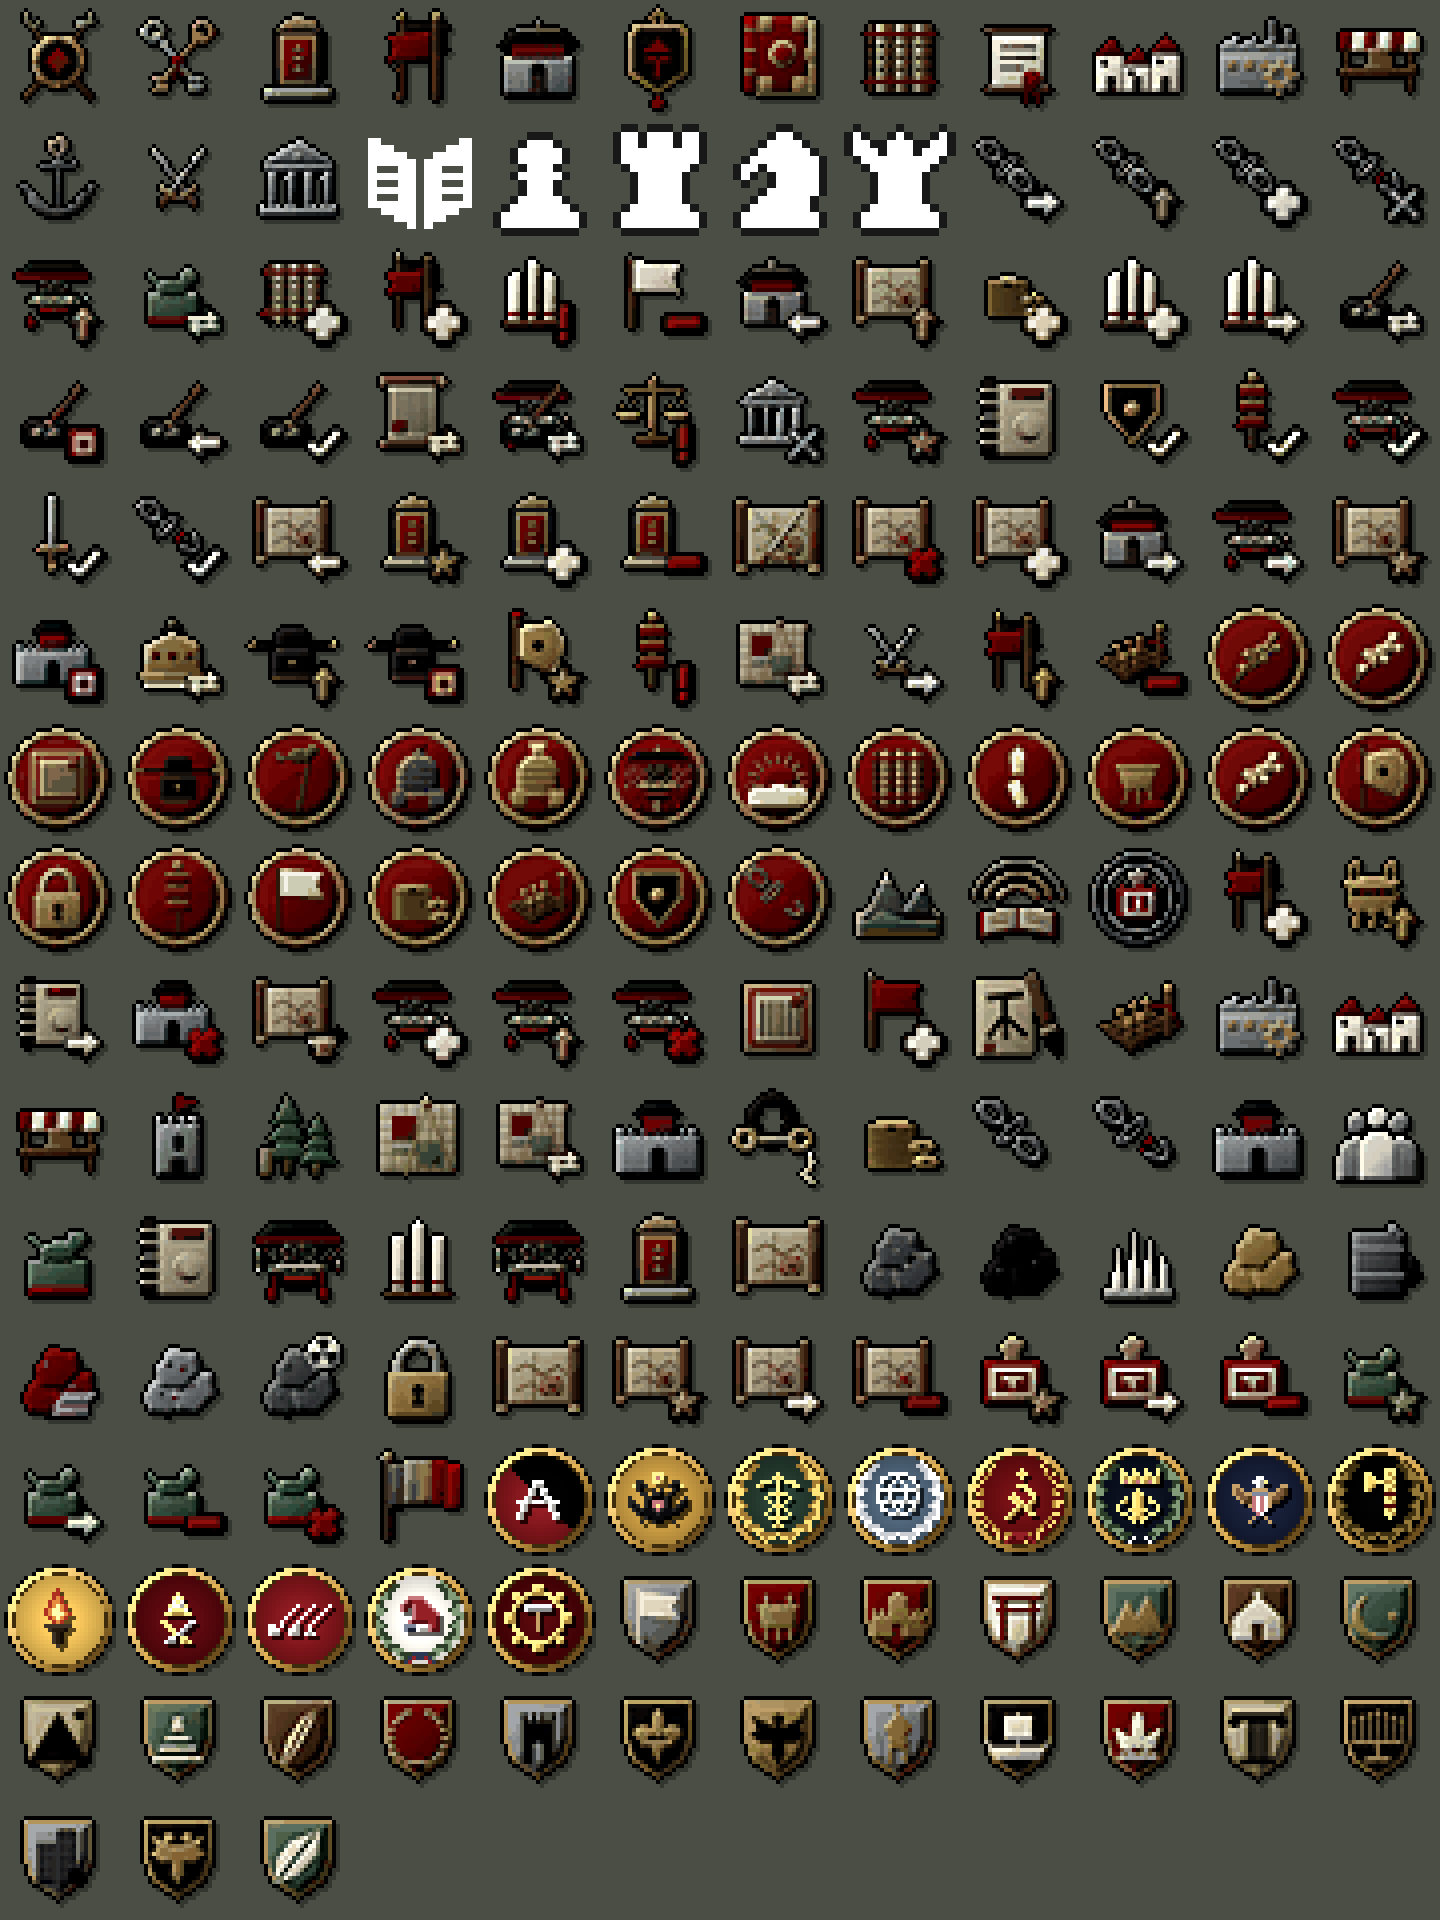
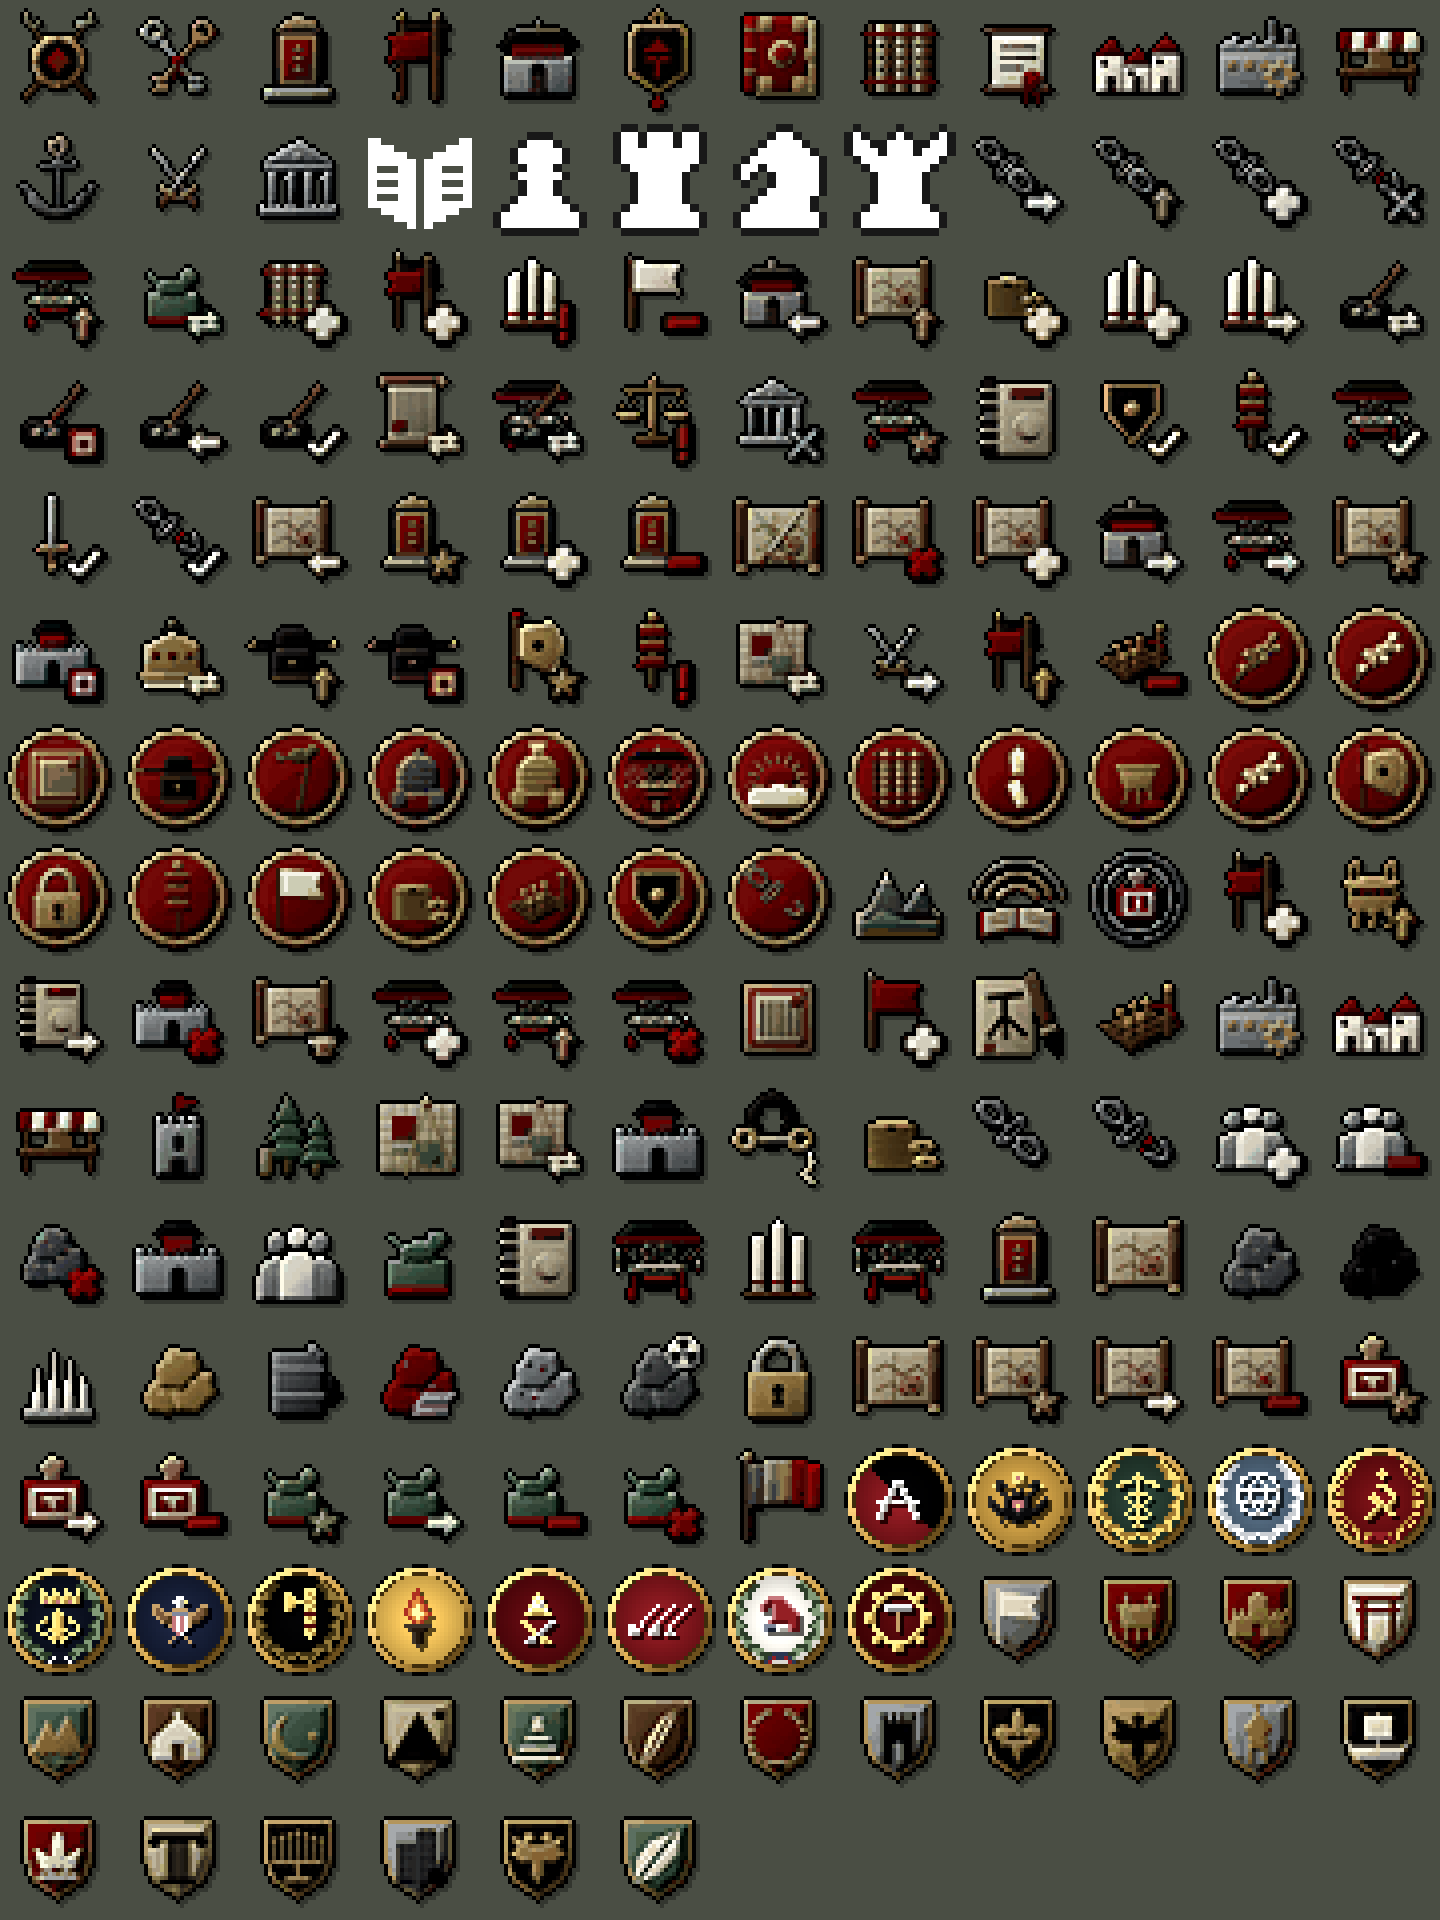
人口、矿藏神力笔刷(玩家："可以自定义人口、资源分布吗"，用户选神力笔刷)：文化与规划页新加一组——增加人口、减少人口(按住在城市领地上刷，刷到的城每 0.12 秒按原有阶层、文化、种族、理念比例增减约 4%，至少 50 人；空城按本城主文化加农民)；八种战略矿藏各一个"放置矿藏"笔刷(刷到的城有了这种矿藏、储量回满、固定下来，图标用现成的资源图标)；清除矿藏(去掉刷到的城全部战略矿藏)。三个新图标用 IconForge 画(人口剪影加减号、矿石叉号)

Changed region(s): [[0.0, 0.5625, 1.0, 1.0]]

diff --git a/Scripts/GodPowers/CityResourcePowers.cs b/Scripts/GodPowers/CityResourcePowers.cs
@@ -1,0 +1,161 @@
+using System.Collections.Generic;
+using System.Linq;
+using EmpireCraft.Scripts.Data;
+using EmpireCraft.Scripts.GameClassExtensions;
+using EmpireCraft.Scripts.GeneralSystems;
+using EmpireCraft.Scripts.Layer;
+using NeoModLoader.General;
+using UnityEngine;
+
+namespace EmpireCraft.Scripts.GodPowers;
+
+// 人口、矿藏笔刷(玩家："可以自定义人口、资源分布吗"，用户 2026-10-16 选神力笔刷)：
+//   · 增加人口 / 减少人口：按住在城市领地上刷，笔刷盖到的每座城每 0.12 秒增减现有人口的 4%(至少 50 人)，
+//     按原有的阶层、文化、种族、理念比例增减；空城按本城主文化加农民；
+//   · 矿藏笔刷(铜、煤、硝石、硫磺、石油、铝土、稀土、铀各一个)：刷到的城有了这种矿藏、储量回满，固定下来
+//     (同读档后的矿藏一样不再随地形变)；"清除矿藏"刷到的城去掉全部战略矿藏。
+public static class CityResourcePowers
+{
+    public const string PopulationAdd = "population_add", PopulationRemove = "population_remove", DepositClear = "deposit_clear";
+    private const string DepositPrefix = "deposit_";
+    private const float StepShare = 0.04f, MinStep = 50f, Interval = 0.12f;
+    private static readonly Dictionary<long, float> LastStroke = new();
+    private static readonly HashSet<City> Brushed = new();
+    private static readonly Dictionary<string, string> Minerals = new();
+
+    public static string DepositId(string mineral) => DepositPrefix + mineral;
+
+    // 登记各笔刷，返回 (神力 id, 按钮图标路径)
+    public static List<(string power, string icon)> Init()
+    {
+        var result = new List<(string, string)>
+        {
+            (PopulationAdd, "ui/icons/godpowers/" + PopulationAdd),
+            (PopulationRemove, "ui/icons/godpowers/" + PopulationRemove)
+        };
+        foreach ((string mineral, _, _, _) in MineralResourceSystem.Minerals)
+        {
+            string id = DepositId(mineral);
+            Minerals[id] = mineral;
+            // 名称、说明随矿名拼出来
+            string name = LM.Get(mineral);
+            LM.AddToCurrentLocale(id, string.Format(LM.Get("deposit_power_name"), name));
+            LM.AddToCurrentLocale(id + "_description", string.Format(LM.Get("deposit_power_description"), name));
+            result.Add((id, "ui/icons/resources/iconRes_" + mineral));
+        }
+        result.Add((DepositClear, "ui/icons/godpowers/" + DepositClear));
+        foreach ((string id, _) in result)
+        {
+            if (AssetManager.powers.get(id) != null) continue;
+            AssetManager.powers.add(new GodPower
+            {
+                id = id,
+                name = id,
+                hold_action = true,
+                show_tool_sizes = true,
+                unselect_when_window = true,
+                click_power_action = Collect,
+                click_power_brush_action = Stroke
+            });
+        }
+        return result;
+    }
+
+    // 笔刷盖到的格子：记下所在的城
+    private static bool Collect(WorldTile tile, GodPower power)
+    {
+        City city = tile?.zone_city;
+        if (city?.data != null && !city.isRekt()) Brushed.Add(city);
+        return true;
+    }
+
+    // 按住时每帧调一次：笔刷盖到的城各结算一次(同一座城隔 Interval 秒才再算)
+    private static bool Stroke(WorldTile center, GodPower power)
+    {
+        if (center == null || power == null || World.world == null) return false;
+        Brushed.Clear();
+        World.world.loopWithBrush(center, Brush.get(Config.current_brush), Collect, power);
+        float now = Time.unscaledTime;
+        bool changed = false;
+        foreach (City city in Brushed.ToList())
+        {
+            long key = city.data.id * 31L + power.id.GetHashCode();
+            if (LastStroke.TryGetValue(key, out float last) && now - last < Interval) continue;
+            LastStroke[key] = now;
+            changed |= Apply(city, power.id);
+        }
+        if (LastStroke.Count > 512) LastStroke.Clear();
+        return changed;
+    }
+
+    private static bool Apply(City city, string power)
+    {
+        switch (power)
+        {
+            case PopulationAdd: return ChangePopulation(city, true);
+            case PopulationRemove: return ChangePopulation(city, false);
+            case DepositClear:
+            {
+                CityPopulationData data = CityPopulationSystem.Get(city);
+                if (data == null) return false;
+                data.deposits_fixed ??= new Dictionary<string, bool>();
+                bool changed = false;
+                foreach ((string mineral, _, _, float chance) in MineralResourceSystem.Minerals)
+                {
+                    if (!MineralResourceSystem.HasDeposit(city, mineral, chance)) continue;
+                    data.deposits_fixed[mineral] = false;
+                    changed = true;
+                }
+                if (changed) Tip(city, LM.Get("deposit_clear_done"));
+                return changed;
+            }
+        }
+        if (!Minerals.TryGetValue(power, out string id)) return false;
+        CityPopulationData state = CityPopulationSystem.Get(city);
+        if (state == null) return false;
+        state.deposits_fixed ??= new Dictionary<string, bool>();
+        bool had = state.deposits_fixed.TryGetValue(id, out bool known) && known;
+        bool exhausted = state.deposit_depleted_at != null && state.deposit_depleted_at.ContainsKey(id) ||
+                         state.deposit_mined != null && state.deposit_mined.TryGetValue(id, out float mined) && mined > 0f;
+        if (had && !exhausted) return false;
+        state.deposits_fixed[id] = true;
+        state.deposit_depleted_at?.Remove(id);
+        state.deposit_mined?.Remove(id);
+        Tip(city, string.Format(LM.Get("deposit_power_done"), LM.Get(id)));
+        return true;
+    }
+
+    // 按原有的阶层、文化、种族、理念比例增减；空城按本城主文化加农民
+    private static bool ChangePopulation(City city, bool add)
+    {
+        CityPopulationData data = CityPopulationSystem.Get(city);
+        if (data?.groups == null) return false;
+        float total = CityPopulationSystem.GetBackgroundTotal(city);
+        float amount = Mathf.Max(MinStep, total * StepShare);
+        if (add)
+        {
+            if (total < 1f)
+            {
+                string culture = CultureService.GetMainCulture(city);
+                string species = city.kingdom?.getSpecies() ?? "";
+                CityPopulationSystem.AddBackground(city, SocialClass.Peasant, culture, species, default, amount);
+            }
+            else
+                foreach (PopGroup group in data.groups.ToList())
+                    if (group != null && group.Background > 0f) group.size += group.Background / total * amount;
+        }
+        else
+        {
+            if (total < 1f) return false;
+            amount = Mathf.Min(amount, total);
+            foreach (PopGroup group in data.groups.ToList())
+                if (group != null && group.Background > 0f) CityPopulationSystem.RemoveBackground(group, group.Background / total * amount);
+        }
+        LayerCityCache.Invalidate(city);
+        Tip(city, string.Format(LM.Get("population_power_done"), Mathf.RoundToInt(CityPopulationSystem.GetBackgroundTotal(city))));
+        return true;
+    }
+
+    private static void Tip(City city, string text) =>
+        WorldTip.showNow($"{city.GetCityName()}：{text}", false, "top", 1.5f);
+}

diff --git a/Scripts/UI/MainTab.cs b/Scripts/UI/MainTab.cs
@@ -28,6 +28,7 @@ internal static class MainTab
     public const string PLANNING_GROUP = "city_planning_group";
     public const string IDEOLOGY_SEED_GROUP = "ideology_seed_group";
     public const string CULTURE_BRUSH_GROUP = "culture_brush_group";
+    public const string RESOURCE_BRUSH_GROUP = "resource_brush_group";
     public const string DISPLAY_GROUP = "display_tool_group";
     public const string EMPIRE_FUNCTIONS = "empire_function_group";
     public const string PROVINCE_GROUP = "province_group";
@@ -58,6 +59,7 @@ internal static class MainTab
             PLANNING_GROUP,
             IDEOLOGY_SEED_GROUP,
             CULTURE_BRUSH_GROUP,
+            RESOURCE_BRUSH_GROUP,
         });
         // Add buttons to the tab.
         // 向标签页添加按钮.
@@ -393,6 +395,21 @@ internal static class MainTab
                 brushTip.type = "normal";
             }
             AddButton(CULTURE_BRUSH_GROUP, brush);
+        }
+
+        // ---- 人口、矿藏笔刷(见 CityResourcePowers) ----
+        foreach ((string powerId, string icon) in CityResourcePowers.Init())
+        {
+            PowerButton brush = PowerButtonCreator.CreateGodPowerButton(powerId, SpriteTextureLoader.getSprite(icon));
+            TipButton brushTip = brush?.GetComponent<TipButton>();
+            if (brushTip != null)
+            {
+                brushTip.textOnClick = powerId;
+                brushTip.textOnClickDescription = powerId + "_description";
+                brushTip.text_description_2 = "";
+                brushTip.type = "normal";
+            }
+            AddButton(RESOURCE_BRUSH_GROUP, brush);
         }
 
         // ---- 理念种子 ----

diff --git a/Tools/IconForge/imperial_forge.py b/Tools/IconForge/imperial_forge.py
@@ -1370,6 +1370,14 @@ RESOURCES = {
 
 
 # ═════════════ 生成 ═════════════
+# 人口、矿藏笔刷(这几个对象定义在 GODPOWERS 之后，这里补进去)
+GODPOWERS.update({
+    "population_add": (obj_people, "plus"),
+    "population_remove": (obj_people, "minus"),
+    "deposit_clear": (obj_res_copper, "cross"),
+})
+
+
 def build():
     out = {}
     for name, obj in TABS.items():
